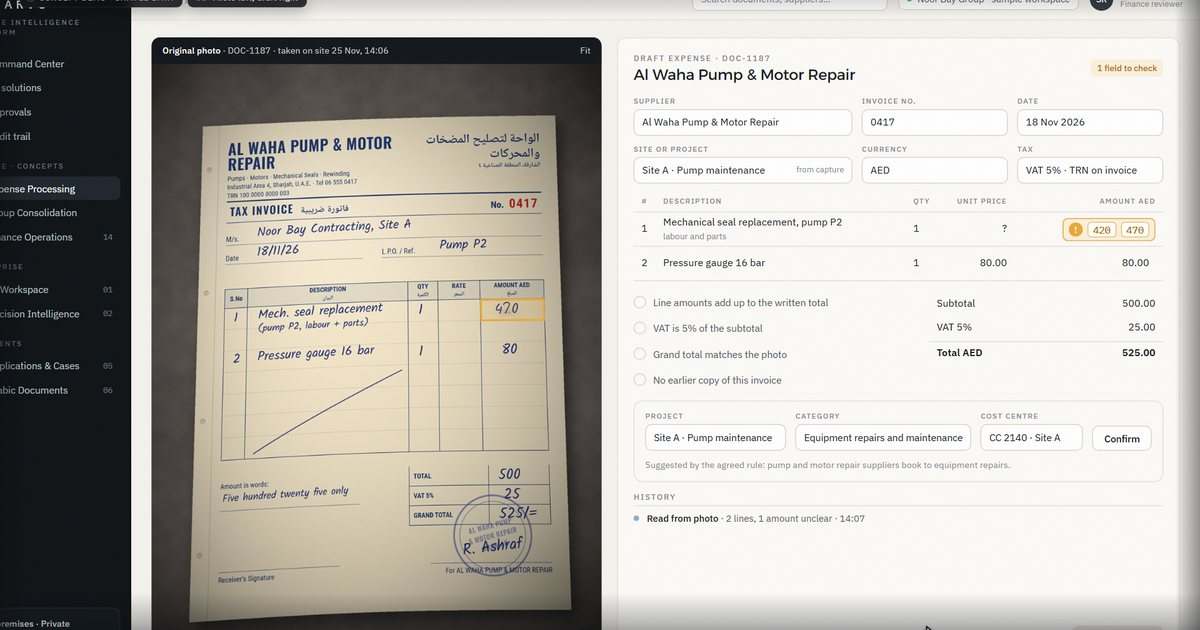
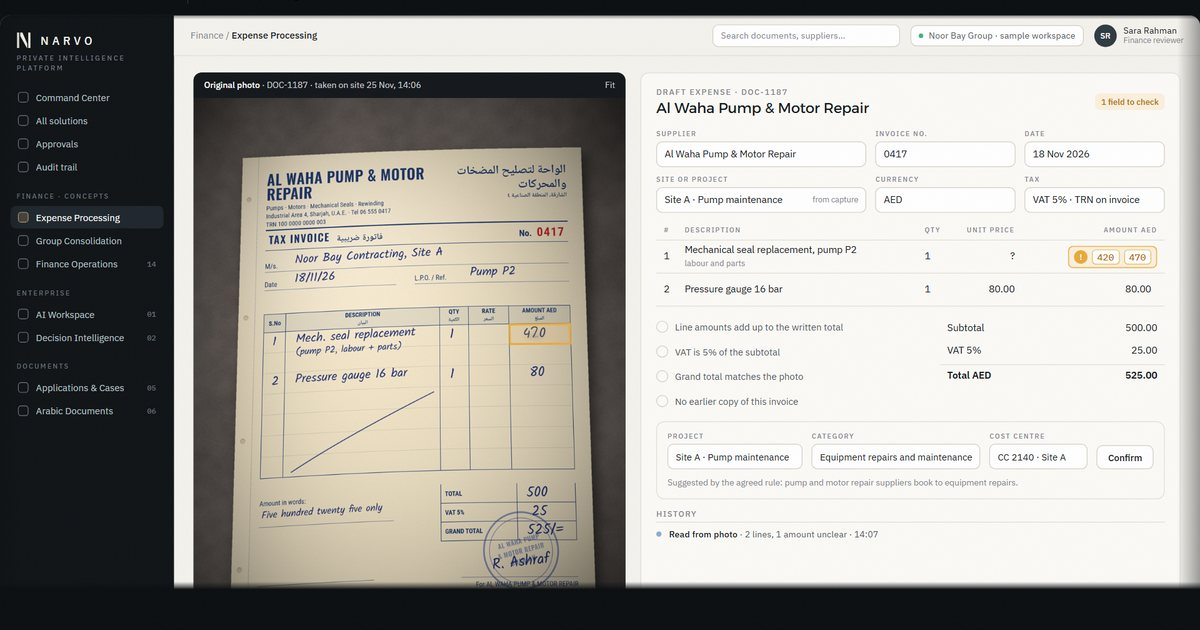
Bin Hilal space: refreshed films and posters

diff --git a/clients/bin-hilal/index.html b/clients/bin-hilal/index.html
@@ -183,7 +183,7 @@ html.locked main, html.locked .ft { display: none; }
         <div><p class="label">Concept 01 · Expense and invoice processing</p><h2>One unclear number on a photo</h2></div>
         <span class="dur">1 min 10 s · English</span>
       </div>
-      <div class="screen reveal" data-src="https://omar07ibrahim.github.io/narvo-media/concepts/expense-processing.mp4?v=2">
+      <div class="screen reveal" data-src="https://omar07ibrahim.github.io/narvo-media/concepts/expense-processing.mp4?v=3">
         <button class="cover" type="button" aria-label="Play the film: One unclear number on a photo">
           <img src="poster-expense.jpg" width="1600" height="900" alt="" decoding="async">
           <span class="play"><svg viewBox="0 0 10 12" aria-hidden="true"><path d="M0 0l10 6-10 6z"/></svg></span>
@@ -219,7 +219,7 @@ html.locked main, html.locked .ft { display: none; }
         <div><p class="label">Concept 02 · Group financial consolidation</p><h2>One figure in the P&amp;L</h2></div>
         <span class="dur">1 min 11 s · English</span>
       </div>
-      <div class="screen reveal" data-src="https://omar07ibrahim.github.io/narvo-media/concepts/group-consolidation.mp4?v=2">
+      <div class="screen reveal" data-src="https://omar07ibrahim.github.io/narvo-media/concepts/group-consolidation.mp4?v=3">
         <button class="cover" type="button" aria-label="Play the film: One figure in the P&amp;L">
           <img src="poster-consolidation.jpg" width="1600" height="900" alt="" decoding="async">
           <span class="play"><svg viewBox="0 0 10 12" aria-hidden="true"><path d="M0 0l10 6-10 6z"/></svg></span>
